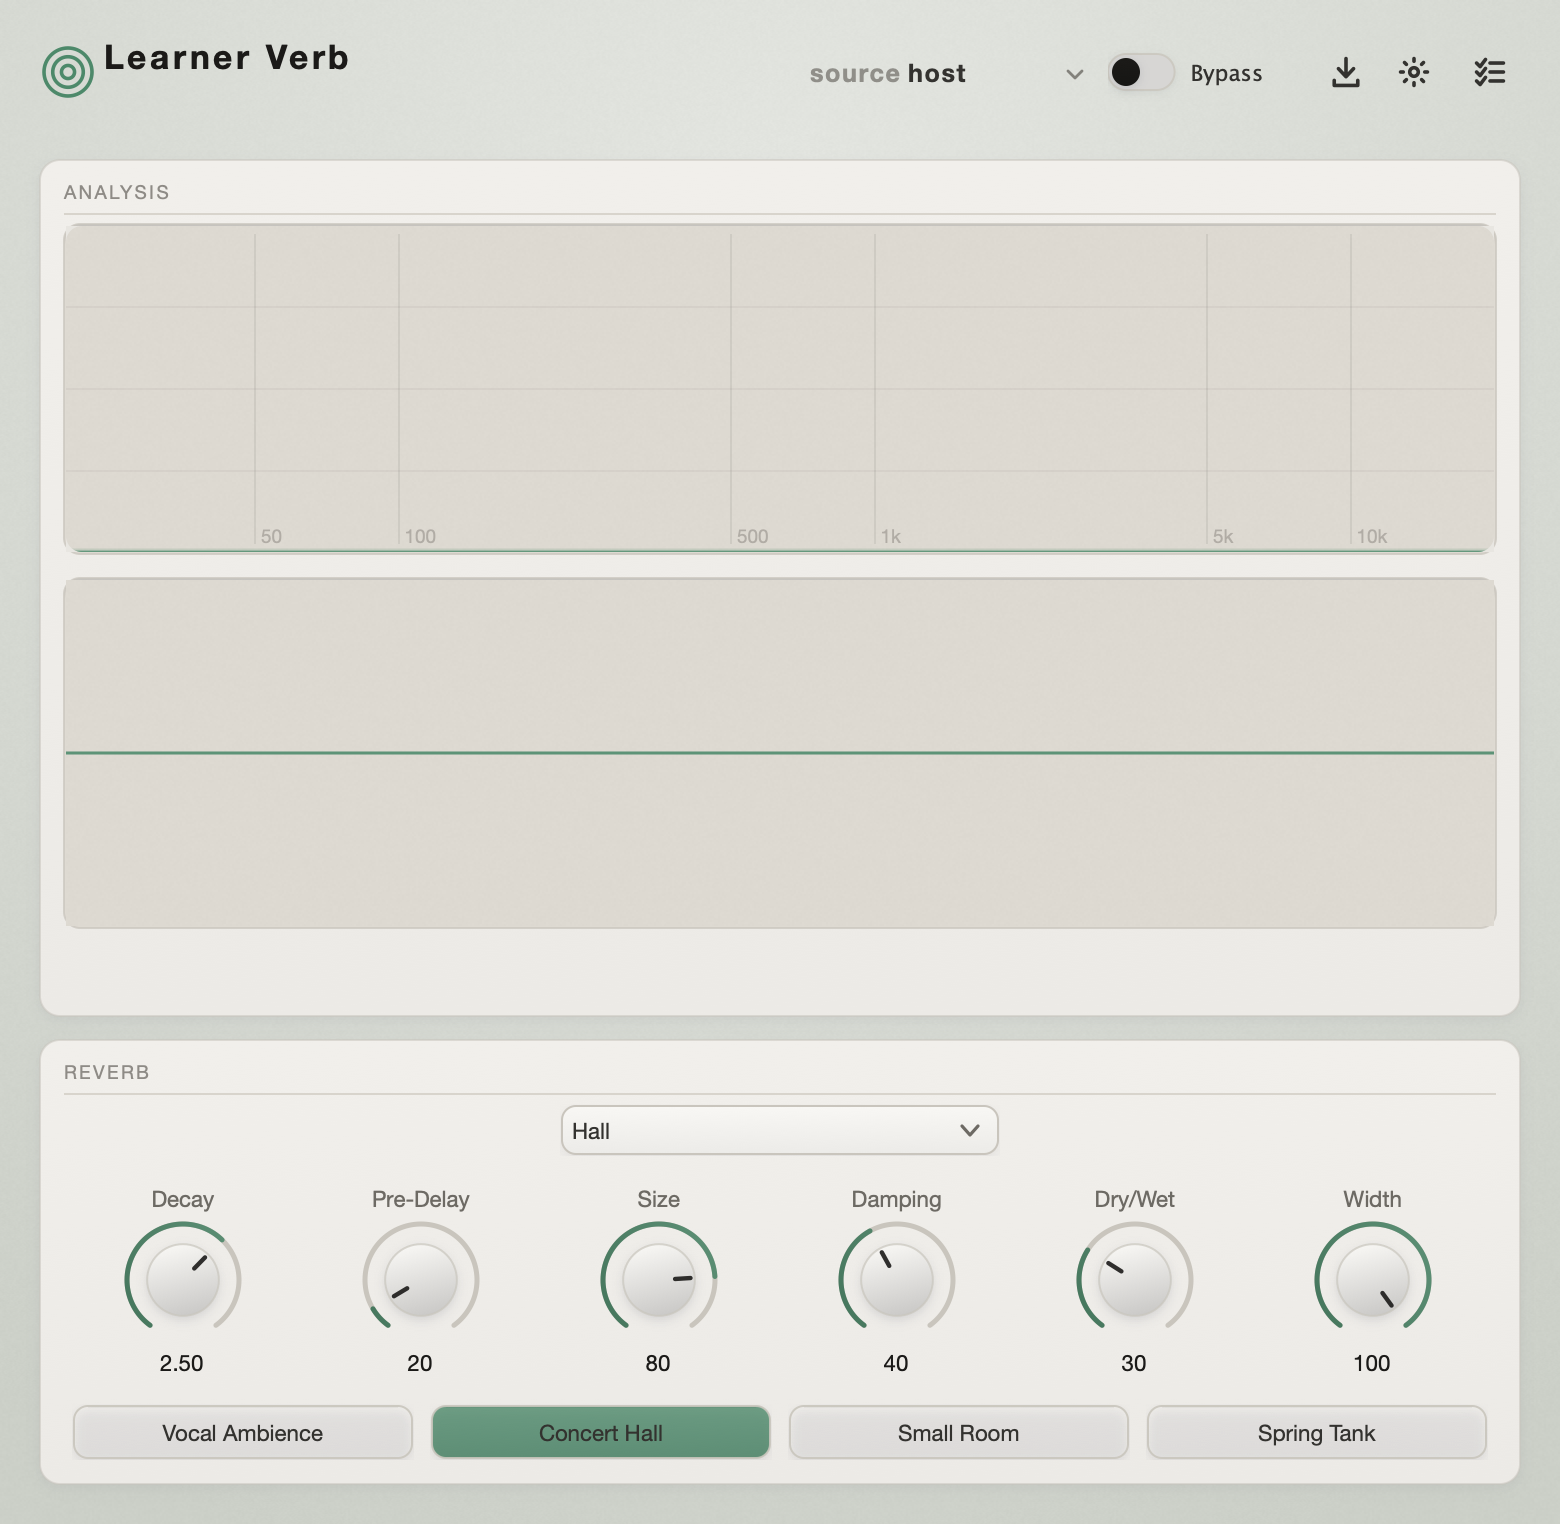
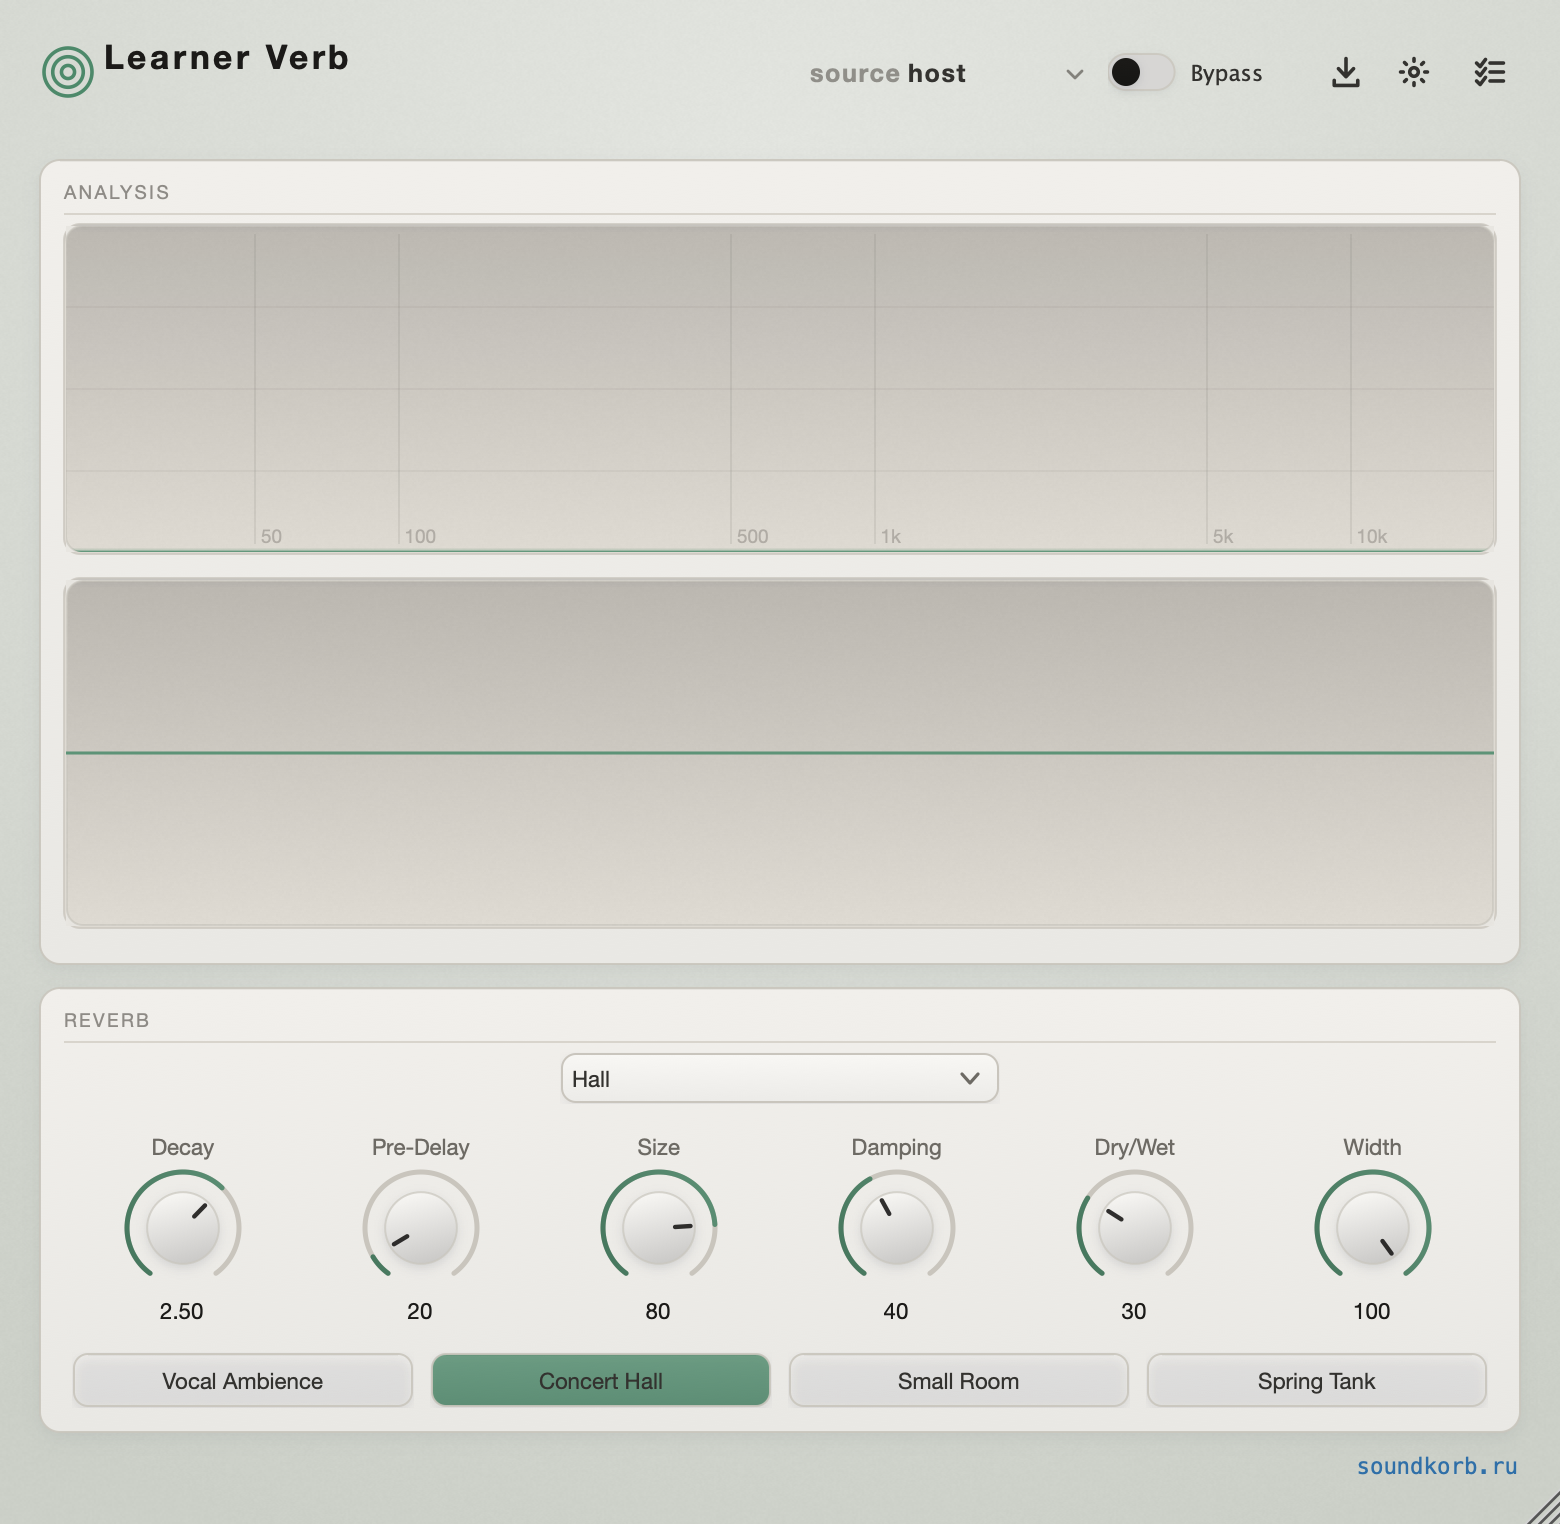
Design system, part 2: depth as two shapes, and windows that stretch
Depth is now two named shapes with opposite lighting, and every panel in
four plugins goes through one of them.

A raised card is lit from above, carries a shadow *under* it rather than
around it - a shadow on four sides reads as a glow, and a glow says
"selected", not "raised" - and has a one-pixel highlight along its top
edge only. That highlight is the cheapest convincing depth cue there is
and the one most often left out. A recessed well is the exact inverse:
dark at its top lip, lighter at its bottom, with an inner shadow clipped
to the corner radius so it follows the curve instead of stopping at the
corners. The same rounded rectangle reads as sitting on the surface or cut
into it depending only on which edge is bright.

The spectrum and waveform are wells now, not flat rectangles, so the
analysis genuinely sits inside the panel around it. paintSectionPanel had
its own hand-rolled version of the raised look, which is how the sections
had stopped matching each other; it calls the shared one.

The three Learner windows are resizable. The analysis section takes
whatever is left over rather than a hardcoded 460 pixels, with a floor so
it cannot be squeezed to nothing; everything below it keeps a fixed height
deliberately, because a rotary that grows stops matching its neighbours
and a preset chip does not get more readable for being taller. Limits are
82% of the design width and 160% of it - low enough to fit a laptop, high
[…]

diff --git a/shared/AbcTrainLookAndFeel.cpp b/shared/AbcTrainLookAndFeel.cpp
@@ -692,17 +692,10 @@ void AbcTrainLookAndFeel::paintSectionPanel (juce::Graphics& g, juce::Rectangle<
 {
     const auto& t = current();
 
-    juce::Path shape;
-    shape.addRoundedRectangle (bounds, Radius::panel);
-    dropShadowForPath (g, shape, 0.18f, 8, { 0, 2 });
-
-    juce::ColourGradient gradient (t.panelBackground.brighter (0.03f), bounds.getX(), bounds.getY(),
-                                    t.panelBackground.darker (0.02f), bounds.getX(), bounds.getBottom(), false);
-    g.setGradientFill (gradient);
-    g.fillRoundedRectangle (bounds, Radius::panel);
-
-    g.setColour (t.outline.withAlpha (0.55f));
-    g.drawRoundedRectangle (bounds, Radius::panel, 1.0f);
+    // One implementation of "a raised card", used here and by every other
+    // panel in the four plugins. Two near-identical hand-rolled versions of
+    // this is how the sections stopped matching each other.
+    paintRaisedCard (g, bounds);
 
     if (caption.isNotEmpty())
     {
@@ -719,6 +712,75 @@ void AbcTrainLookAndFeel::paintSectionPanel (juce::Graphics& g, juce::Rectangle<
         g.drawLine (bounds.getX() + (float) Spacing::medium, lineY,
                     bounds.getRight() - (float) Spacing::medium, lineY, 1.0f);
     }
+}
+
+void AbcTrainLookAndFeel::paintRaisedCard (juce::Graphics& g, juce::Rectangle<float> bounds,
+                                            float elevation)
+{
+    const auto& t = current();
+
+    juce::Path shape;
+    shape.addRoundedRectangle (bounds, AbcTrainTheme::Radius::panel);
+
+    // The shadow scales with elevation and stays *under* the shape, never
+    // around it: a shadow on all four sides reads as a glow, and a glow
+    // says "selected", not "raised".
+    dropShadowForPath (g, shape, 0.34f * t.shadowStrength * elevation,
+                        (int) (14.0f * elevation), { 0, (int) (3.0f * elevation) });
+
+    // Lit from above. Two stops rather than a flat fill, and the difference
+    // is small enough that it reads as light rather than as a gradient.
+    juce::ColourGradient face (t.panelBackground.brighter (0.045f * elevation),
+                                bounds.getCentreX(), bounds.getY(),
+                                t.panelBackground.darker (0.03f * elevation),
+                                bounds.getCentreX(), bounds.getBottom(), false);
+    g.setGradientFill (face);
+    g.fillPath (shape);
+
+    // A one-pixel highlight along the top edge only. This is the cheapest
+    // convincing depth cue there is and the one most often left out.
+    g.setColour (t.textBright.withAlpha (0.06f * elevation));
+    g.drawLine (bounds.getX() + AbcTrainTheme::Radius::panel, bounds.getY() + 0.5f,
+                 bounds.getRight() - AbcTrainTheme::Radius::panel, bounds.getY() + 0.5f, 1.0f);
+
+    g.setColour (t.outline.withAlpha (0.9f));
+    g.strokePath (shape, juce::PathStrokeType (1.0f));
+}
+
+void AbcTrainLookAndFeel::paintRecessedWell (juce::Graphics& g, juce::Rectangle<float> bounds,
+                                              float radius)
+{
+    const auto& t = current();
+
+    // Dark at the top, lighter at the bottom - the exact inverse of the
+    // card above, which is what makes one read as cut in and the other as
+    // sitting on top.
+    juce::ColourGradient inside (t.displayBackground.darker (0.18f),
+                                  bounds.getCentreX(), bounds.getY(),
+                                  t.displayBackground.brighter (0.04f),
+                                  bounds.getCentreX(), bounds.getBottom(), false);
+    g.setGradientFill (inside);
+    g.fillRoundedRectangle (bounds, radius);
+
+    // An inner shadow along the top lip only, drawn as a clipped stroke so
+    // it follows the corner radius instead of stopping at the corners.
+    {
+        juce::Graphics::ScopedSaveState clipped (g);
+
+        juce::Path shape;
+        shape.addRoundedRectangle (bounds, radius);
+        g.reduceClipRegion (shape);
+
+        for (int i = 0; i < 3; ++i)
+        {
+            g.setColour (t.shadow.withAlpha (0.10f * t.shadowStrength * (float) (3 - i) / 3.0f));
+            g.drawLine (bounds.getX(), bounds.getY() + 0.5f + (float) i,
+                         bounds.getRight(), bounds.getY() + 0.5f + (float) i, 1.0f);
+        }
+    }
+
+    g.setColour (t.outline.withAlpha (0.7f));
+    g.drawRoundedRectangle (bounds, radius, 1.0f);
 }
 
 void AbcTrainLookAndFeel::paintSectionHeading (juce::Graphics& g, juce::Rectangle<float> bounds,

diff --git a/LearnerComp/Source/PluginEditor.cpp b/LearnerComp/Source/PluginEditor.cpp
@@ -305,6 +305,13 @@ LearnerCompEditor::LearnerCompEditor (LearnerCompProcessor& p)
     // the z-order mistake ADR 015, 016 and 017 each had to fix once.
     addChildComponent (moduleScreen);
 
+    // Resizable, with a floor that keeps the layout honest rather than
+    // letting somebody squeeze it into nonsense, and a ceiling so the
+    // knobs do not end up an inch across on a 5K display.
+    setResizable (true, true);
+    setResizeLimits (688, 591, 1344, 1137);
+    getConstrainer()->setFixedAspectRatio (0.0);
+
     setSize (840, 758);
 
     applyTheme();
@@ -454,7 +461,16 @@ void LearnerCompEditor::resized()
     // Caught by rendering the editor (tools/EditorSnapshots); the window
     // had 132px of dead space underneath at the same time, which is where
     // the extra height comes from rather than from a bigger window.
-    analysisSection = area.removeFromTop (460);
+    // Everything below the analysis has a fixed height on purpose: a
+    // rotary that grows is a rotary that stops matching its neighbours,
+    // and a preset chip does not get more readable for being taller.
+    const auto controlsHeight = 186 + Spacing::medium + 18 + Spacing::small;
+
+    // A share of what is available, not a pixel count. The knob row below
+    // needs a fixed height - a rotary that grows is a rotary that stops
+    // matching its neighbours - so the analysis takes everything left over,
+    // with a floor so it cannot be squeezed to nothing.
+    analysisSection = area.removeFromTop (juce::jmax (331, area.getHeight() - controlsHeight));
     {
         auto inner = analysisSection.reduced (Spacing::medium);
         inner.removeFromTop (Spacing::large);

diff --git a/LearnerEQ/Source/PluginEditor.cpp b/LearnerEQ/Source/PluginEditor.cpp
@@ -260,6 +260,13 @@ LearnerEQEditor::LearnerEQEditor (LearnerEQProcessor& p)
     // Taller for the section panels' own padding/captions; the guide text
     // no longer needs a permanent strip (it floats on demand instead).
     // 20 + 32 + 28 + 432 + 12 + 212 + 20, derived from resized().
+    // Resizable, with a floor that keeps the layout honest rather than
+    // letting somebody squeeze it into nonsense, and a ceiling so the
+    // knobs do not end up an inch across on a 5K display.
+    setResizable (true, true);
+    setResizeLimits (647, 589, 1264, 1134);
+    getConstrainer()->setFixedAspectRatio (0.0);
+
     setSize (790, 756);
 
     applyTheme();
@@ -383,7 +390,16 @@ void LearnerEQEditor::resized()
     area.removeFromTop (Spacing::section);
 
     // --- analysis section: response curve + spectrum, waveform, peaks ---
-    analysisSection = area.removeFromTop (432);
+    // Everything below the analysis has a fixed height on purpose: a
+    // rotary that grows is a rotary that stops matching its neighbours,
+    // and a preset chip does not get more readable for being taller.
+    const auto controlsHeight = 212 + Spacing::medium + 18 + Spacing::small;
+
+    // A share of what is available, not a pixel count. The knob row below
+    // needs a fixed height - a rotary that grows is a rotary that stops
+    // matching its neighbours - so the analysis takes everything left over,
+    // with a floor so it cannot be squeezed to nothing.
+    analysisSection = area.removeFromTop (juce::jmax (311, area.getHeight() - controlsHeight));
     {
         auto inner = analysisSection.reduced (Spacing::medium);
         inner.removeFromTop (Spacing::large);

diff --git a/LearnerVerb/Source/PluginEditor.cpp b/LearnerVerb/Source/PluginEditor.cpp
@@ -310,6 +310,13 @@ LearnerVerbEditor::LearnerVerbEditor (LearnerVerbProcessor& p)
     // the z-order mistake ADR 015, 016 and 017 each had to fix once.
     addChildComponent (moduleScreen);
 
+    // Resizable, with a floor that keeps the layout honest rather than
+    // letting somebody squeeze it into nonsense, and a ceiling so the
+    // knobs do not end up an inch across on a 5K display.
+    setResizable (true, true);
+    setResizeLimits (639, 594, 1248, 1143);
+    getConstrainer()->setFixedAspectRatio (0.0);
+
     setSize (780, 762);
 
     applyTheme();
@@ -452,7 +459,16 @@ void LearnerVerbEditor::resized()
     // --- analysis section: spectrum, waveform, peak readouts ---
     // The 58px that used to be dead window below the controls, spent on
     // the displays instead (see the same note in LearnerComp).
-    analysisSection = area.removeFromTop (428);
+    // Everything below the analysis has a fixed height on purpose: a
+    // rotary that grows is a rotary that stops matching its neighbours,
+    // and a preset chip does not get more readable for being taller.
+    const auto controlsHeight = 222 + Spacing::medium + 18 + Spacing::small;
+
+    // A share of what is available, not a pixel count. The knob row below
+    // needs a fixed height - a rotary that grows is a rotary that stops
+    // matching its neighbours - so the analysis takes everything left over,
+    // with a floor so it cannot be squeezed to nothing.
+    analysisSection = area.removeFromTop (juce::jmax (308, area.getHeight() - controlsHeight));
     {
         auto inner = analysisSection.reduced (Spacing::medium);
         inner.removeFromTop (Spacing::large);

diff --git a/shared/AbcTrainLookAndFeel.h b/shared/AbcTrainLookAndFeel.h
@@ -158,6 +158,20 @@ public:
     // three pieces instead of organising it. Used by EarTrainer's
     // training screen; the Learner plugins keep the panels, where a
     // raised surface genuinely separates controls from data displays.
+    // Depth, as two shapes with opposite lighting.
+    //
+    // A raised card is lit from above and casts downward; a recessed well
+    // is dark at its top edge and light at its bottom. That inversion is
+    // the whole of it - the same rounded rectangle reads as sitting on the
+    // surface or cut into it depending only on which edge is bright, and
+    // getting the two consistent across four plugins is most of what makes
+    // an interface look built rather than assembled.
+    static void paintRaisedCard (juce::Graphics&, juce::Rectangle<float> bounds,
+                                  float elevation = 1.0f);
+
+    static void paintRecessedWell (juce::Graphics&, juce::Rectangle<float> bounds,
+                                    float radius = 8.0f);
+
     static void paintSectionHeading (juce::Graphics&, juce::Rectangle<float> bounds,
                                      const juce::String& caption);
 

diff --git a/shared/SpectrumAnalyzer.cpp b/shared/SpectrumAnalyzer.cpp
@@ -162,10 +162,12 @@ void SpectrumAnalyzerComponent::paint (juce::Graphics& g)
     // the thing that read as raw and unfinished next to everything else.
     g.fillAll (theme.windowBackground);
 
+    // A well, not a flat rectangle: dark at its top lip, light at its
+    // bottom, so the analysis reads as recessed into the panel around it.
+    AbcTrainLookAndFeel::paintRecessedWell (g, bounds, AbcTrainTheme::Radius::well);
+
     juce::Path well;
     well.addRoundedRectangle (bounds, AbcTrainTheme::Radius::well);
-    g.setColour (theme.displayBackground);
-    g.fillPath (well);
 
     juce::Graphics::ScopedSaveState clipped (g);
     g.reduceClipRegion (well);

diff --git a/shared/WaveformDisplay.cpp b/shared/WaveformDisplay.cpp
@@ -97,7 +97,9 @@ void WaveformDisplay::paint (juce::Graphics& g)
     const auto& theme = AbcTrainTheme::current();
     const auto bounds = getLocalBounds().toFloat();
 
-    g.fillAll (theme.displayBackground);
+    g.fillAll (theme.windowBackground);
+    AbcTrainLookAndFeel::paintRecessedWell (g, bounds.reduced (0.5f),
+                                             AbcTrainTheme::Radius::well);
     AbcTrainLookAndFeel::overlayTexture (g, bounds, 0.6f);
 
     const auto midY = bounds.getCentreY();
